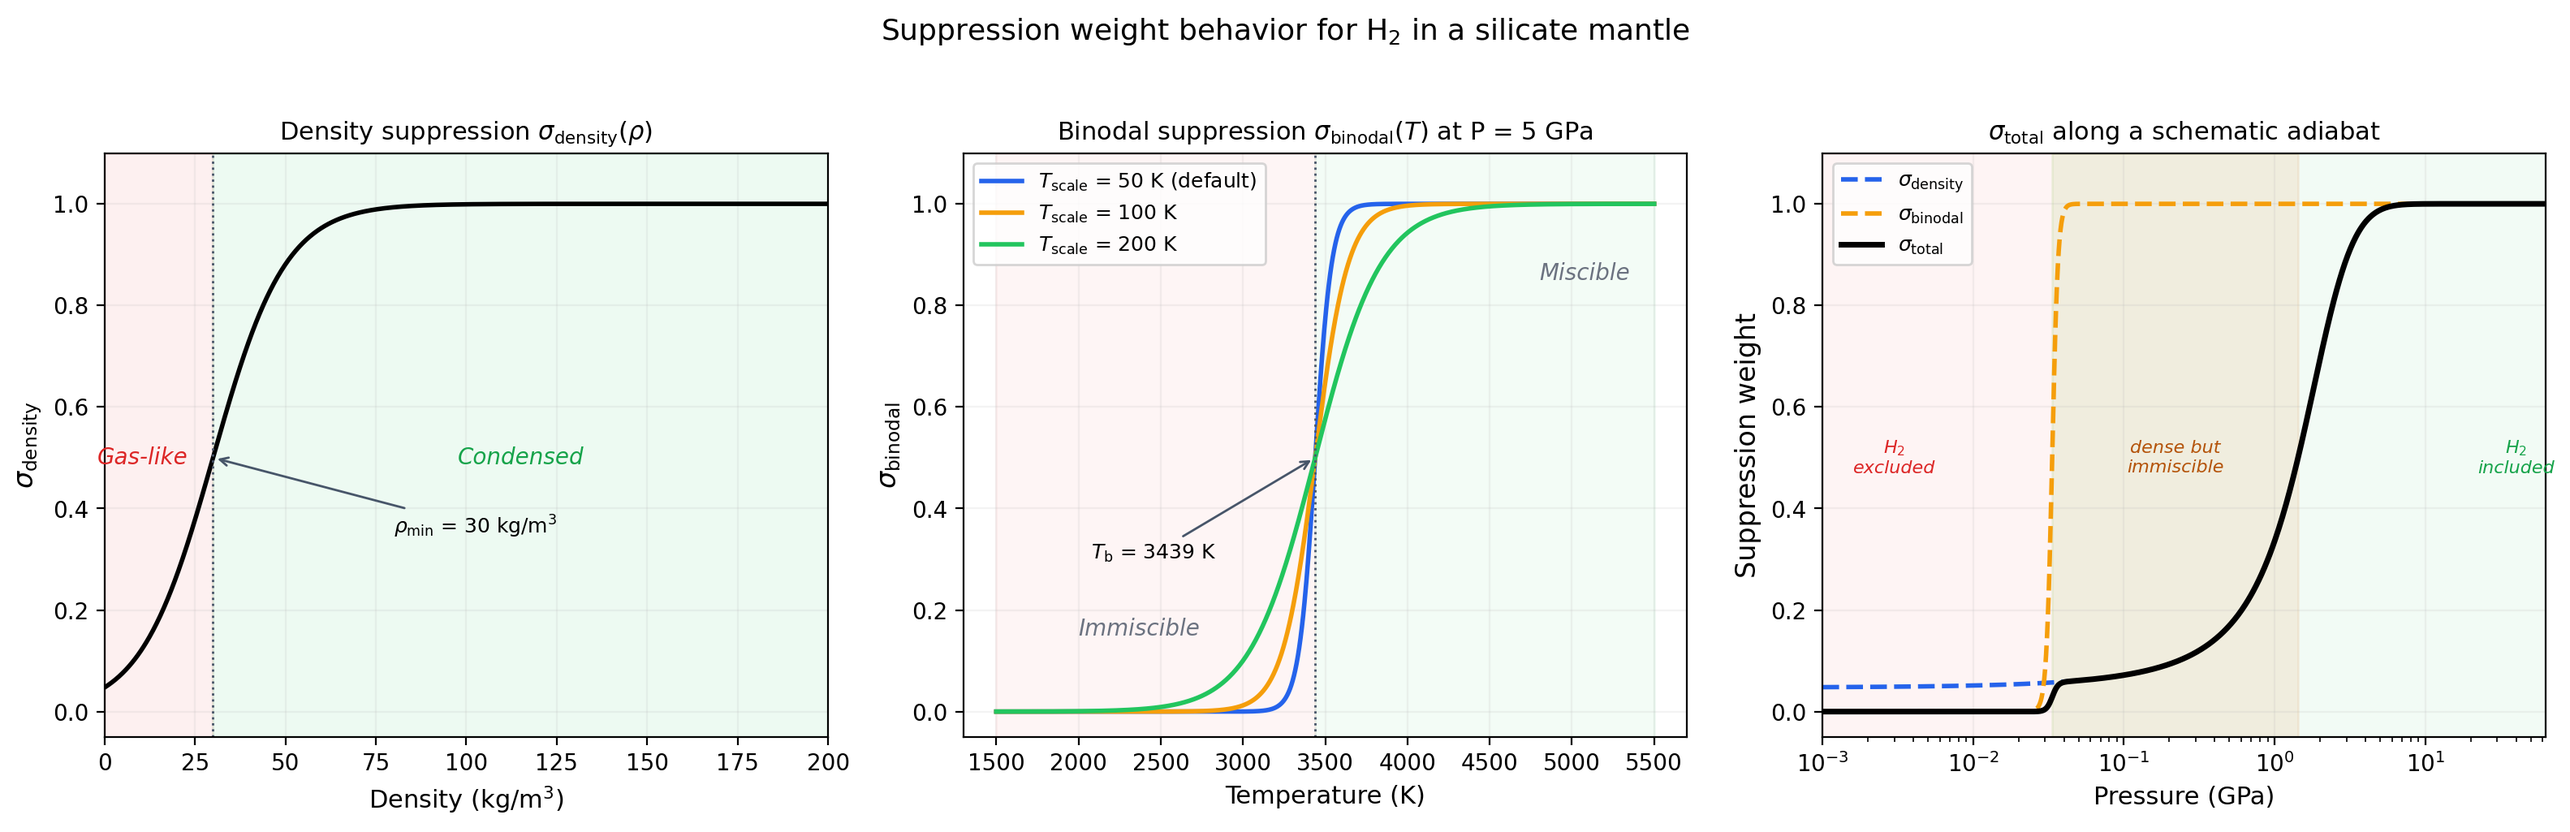
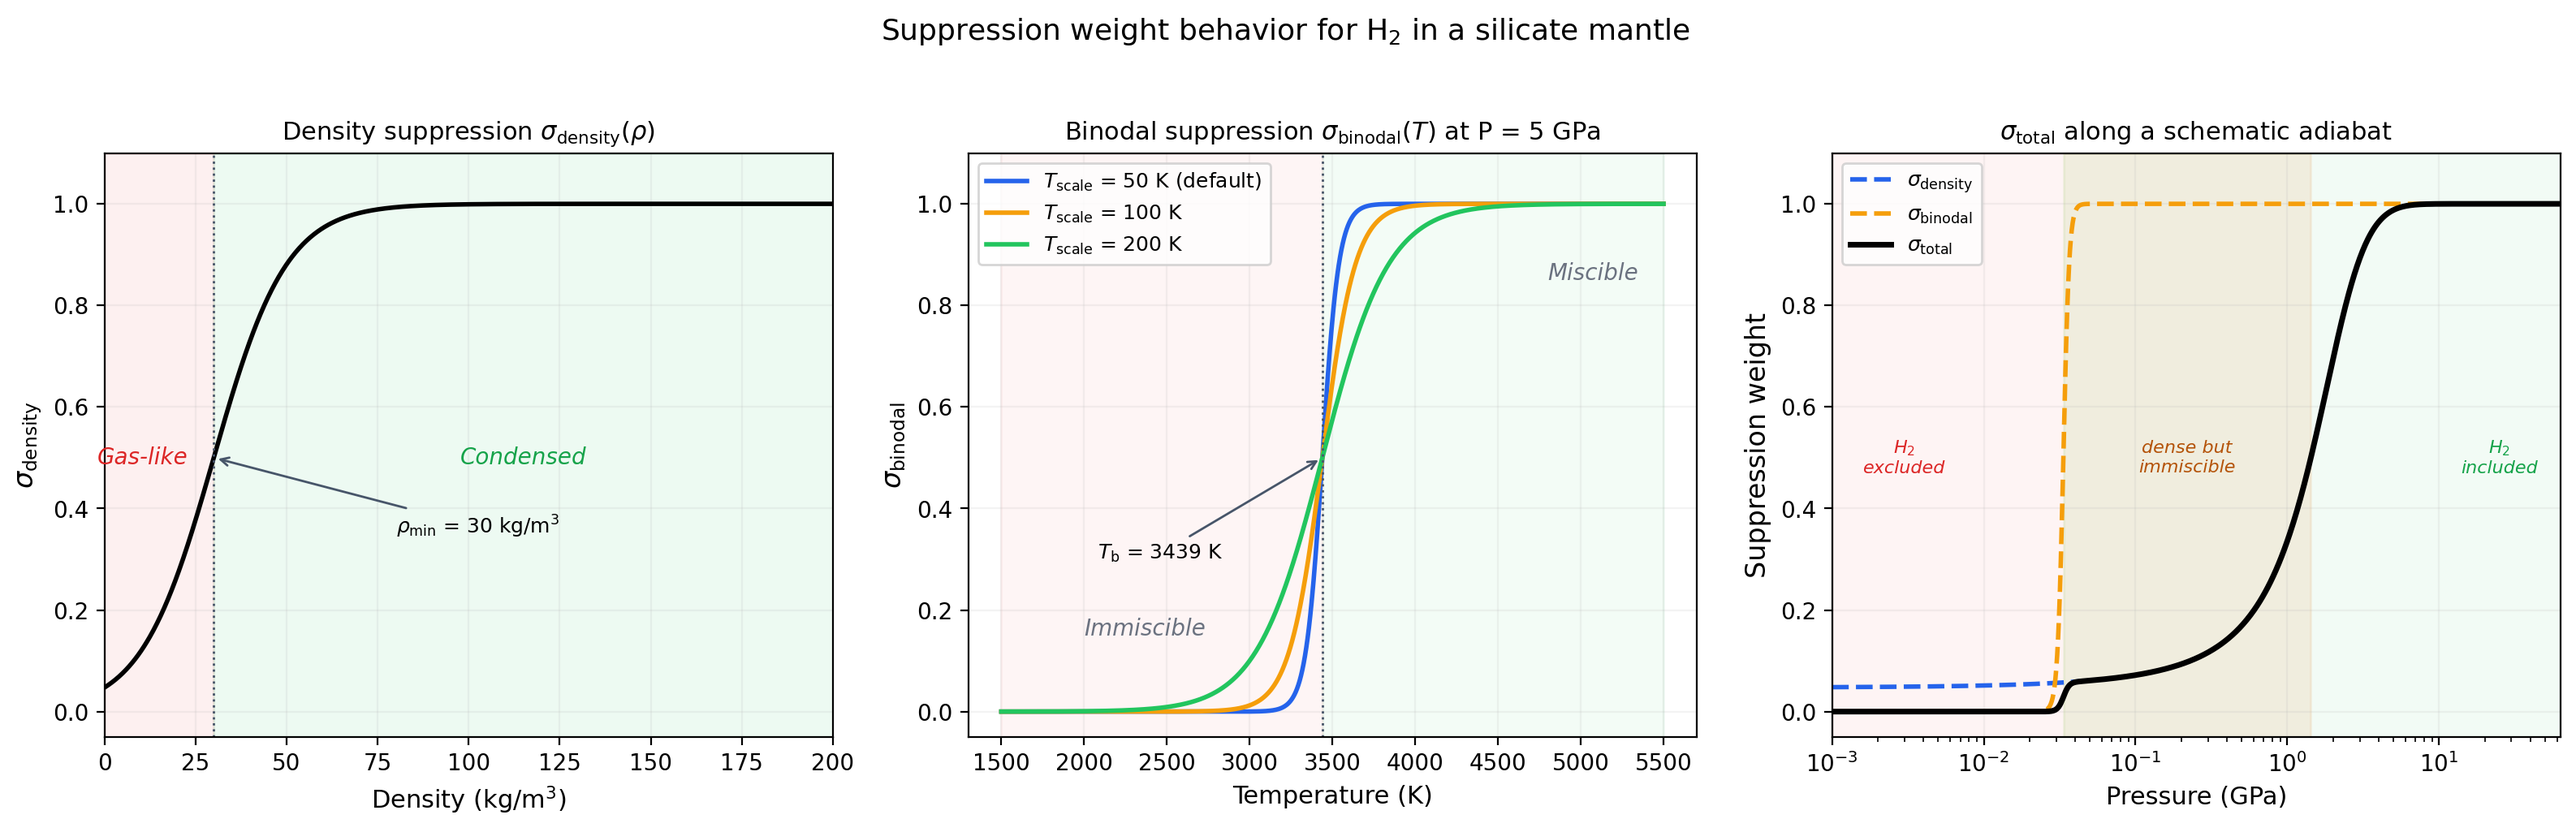
Move 'H2 included' label left to stay within plot area

diff --git a/src/tools/generate_suppression_weights_plot.py b/src/tools/generate_suppression_weights_plot.py
@@ -229,7 +229,7 @@ def main():
         style='italic',
     )
     ax.text(
-        40,
+        25,
         0.5,
         'H$_2$\nincluded',
         fontsize=8,
